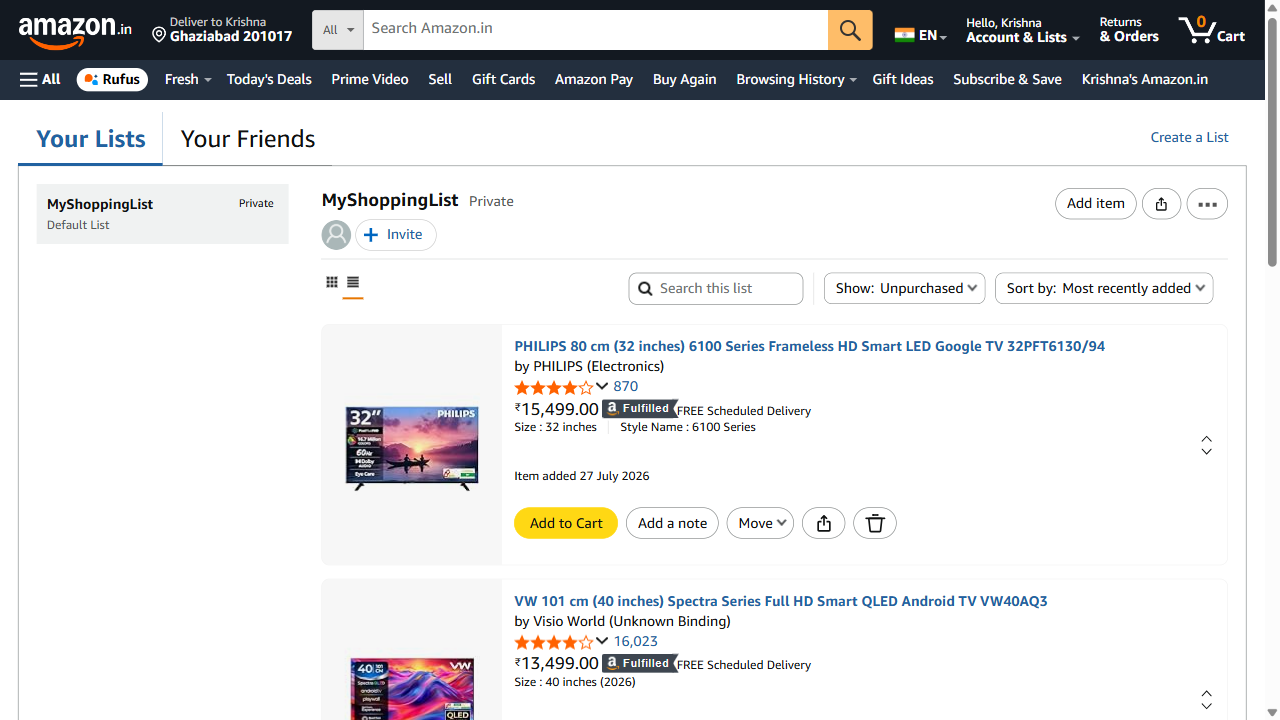
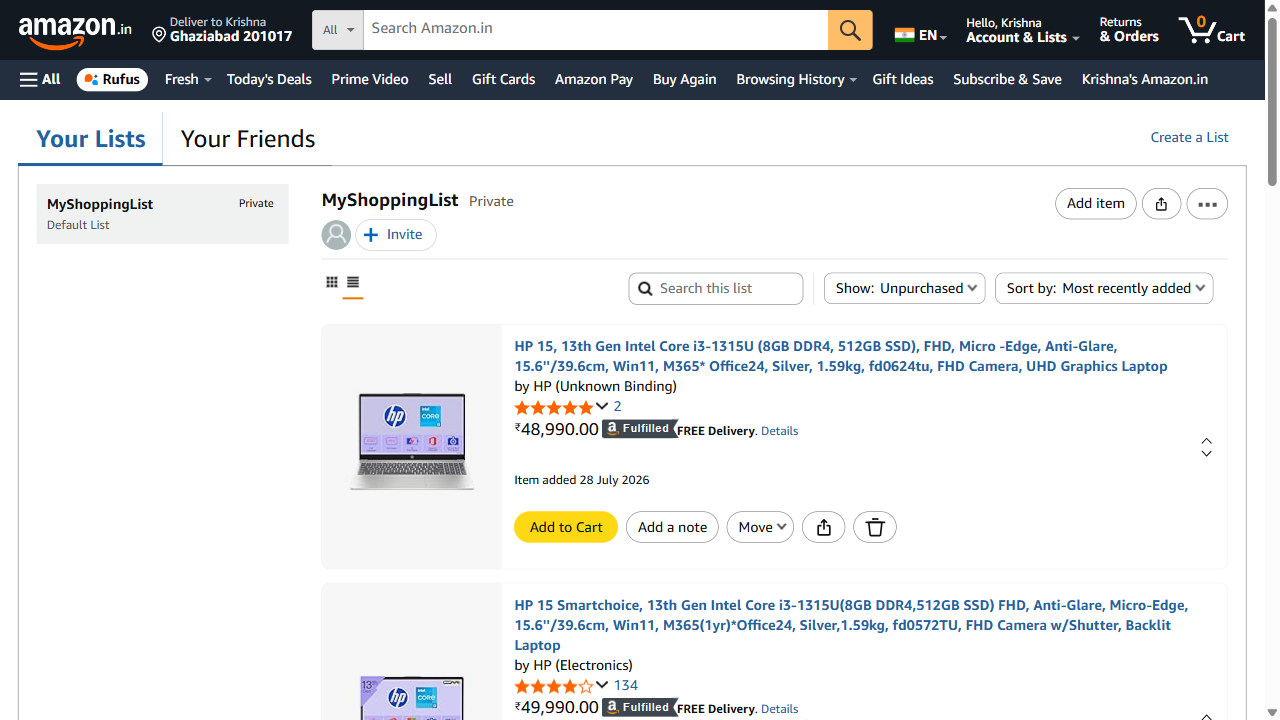
Completed framework

diff --git a/tests/wishlistAddRemove.spec.js b/tests/wishlistAddRemove.spec.js
@@ -8,11 +8,8 @@ const { wishlistUrl } = require('../playwright.config.js');
 const testData = require('../utils/testData.js');
 
 
-const products = [
-    { name: 'Laptop', index: 0 },
-    { name: 'Earbuds', index: 1 },
-    { name: 'TV', index: 3 }
-    ];
+const productName = 'Laptop';
+const productIndexes = [0, 1,3];
 const expectedWishlistItemCount = 3;
 const newWishlistName = 'MyShoppingList';
 const expectedBtnText = 'Add to Wish List';
@@ -21,6 +18,7 @@ const expectedName= 'Krishna' ;
 let homePageobj, searchResultsPageobj, loginPageobj, wishlistPageobj;
 
 test.beforeAll(async ({ browser }) => {
+   // test.setTimeout(40000); 
     const page = await browser.newPage();
     homePageobj = new HomePage(page);
     loginPageobj = new LoginPage(page);
@@ -29,74 +27,42 @@ test.beforeAll(async ({ browser }) => {
     await homePageobj.navigateToHomePage();
     await loginPageobj.login(testData.email, testData.password);
     await loginPageobj.validateLoggedIn(expectedName);
+    await addAllProducts();
 });
 
 // Adds each product to the wishlist, then opens the wishlist 
 async function addAllProducts() {
-    const [firstProduct, secondProduct, thirdProduct] = products;   //destructuring
+    await homePageobj.searchProduct(productName);
+    await searchResultsPageobj.validateSearchResults(productName);
 
-    // Add the first product 
-    await homePageobj.searchProduct(firstProduct.name);
-    await searchResultsPageobj.validateSearchResults(firstProduct.name);
-    const firstProductPage = await searchResultsPageobj.openProduct(firstProduct.index);
+    for (let i = 0; i < productIndexes.length; i++) {
+        const productPage = await searchResultsPageobj.openProduct(productIndexes[i]);
+        const productDetails = new ProductDetailsPage(productPage);
 
-    const firstProductDetails = new ProductDetailsPage(firstProductPage);
-    await firstProductDetails.validateProductPrice();
+        await productDetails.validateProductPrice();
+        await productDetails.addToWishlist(expectedBtnText);
+        await productDetails.validateAddedToWishlistDialog();
 
-    await firstProductDetails.addToWishlist(expectedBtnText);
-    await firstProductDetails.validateAddedToWishlistDialog(firstProduct.name);
-    await firstProductDetails.closeAfterWishlistConfirmation();
+        const isLastProduct = i === productIndexes.length - 1;
 
-
-    // Add the second product 
-    await homePageobj.searchProduct(secondProduct.name);
-    await searchResultsPageobj.validateSearchResults(secondProduct.name);
-    const secondProductPage = await searchResultsPageobj.openProduct(secondProduct.index);
-
-    const secondProductDetails = new ProductDetailsPage(secondProductPage);
-    await secondProductDetails.validateProductPrice();
-
-    await secondProductDetails.addToWishlist(expectedBtnText);
-    await secondProductDetails.validateAddedToWishlistDialog(secondProduct.name);
-    await secondProductDetails.closeAfterWishlistConfirmation();
-
-    // Add the third product open the wishlist
-    await homePageobj.searchProduct(thirdProduct.name);
-    await searchResultsPageobj.validateSearchResults(thirdProduct.name);
-    const thirdProductPage = await searchResultsPageobj.openProduct(thirdProduct.index);
-
-    const thirdProductDetails = new ProductDetailsPage(thirdProductPage);
-    await thirdProductDetails.validateProductPrice();
-
-    await thirdProductDetails.addToWishlist(expectedBtnText);
-    await thirdProductDetails.validateAddedToWishlistDialog(thirdProduct.name);
-
-    // Open the wishlist from the last page and validate count.
-    wishlistPageobj = new WishlistPage(thirdProductPage);
-    await wishlistPageobj.openWishlist(wishlistUrl);
-    await wishlistPageobj.validateWishlistItemCount(expectedWishlistItemCount);
-    
+        if (!isLastProduct) {
+            await productDetails.closeAfterWishlistConfirmation();
+            await homePageobj.page.bringToFront();
+        } else {
+            wishlistPageobj = new WishlistPage(productPage);
+            await wishlistPageobj.openWishlist(wishlistUrl);
+            await wishlistPageobj.validateWishlistItemCount(expectedWishlistItemCount);
+        }
+    }
 }
 
 test.describe('Scenario 5 - Add Product to Wishlist and Remove It', () => {
 
-    test.beforeEach(async () => {
-        await addAllProducts();
-    });
-
-    test.afterEach(async () => {
-    if (wishlistPageobj) {
-        await wishlistPageobj.clearAllWishlistItems();
-    }
-    });
-
 test('Test 1 - Search for an item within the wishlist', async () => {
-    const [laptop] = products;
-
     await wishlistPageobj.captureWishlistScreenshot('Wishlist after adding 3 items');
 
-    await wishlistPageobj.searchWithinWishlist(laptop.name);
-    await wishlistPageobj.validateSearchResultsKeyword(laptop.name);
+    await wishlistPageobj.searchWithinWishlist(productName);
+    await wishlistPageobj.validateSearchResultsKeyword(productName);
     await wishlistPageobj.clearSearchKeyword();
 });
 
@@ -120,6 +86,9 @@ test('Test 3 - Rename the wishlist', async () => {
 });
 });
 
-// test.afterAll(async () => {
-//     await loginPageobj.logout();
-// });
+test.afterAll(async () => {
+//test.setTimeout(40000); 
+ if (wishlistPageobj) {
+        await wishlistPageobj.clearAllWishlistItems();
+    }
+ });

diff --git a/pages/SearchResultsPage.js b/pages/SearchResultsPage.js
@@ -51,13 +51,13 @@ class SearchResultsPage {
     if (this.page.viewportSize().width <= 768) {
         await product.click(); 
         await this.page.waitForURL(/\/dp\/|\/gp\/product\//);
-        await this.page.waitForLoadState('domcontentloaded');
+        //await this.page.waitForLoadState('domcontentloaded');
         return this.page;
     }
     const newPagePromise = this.page.context().waitForEvent('page');
     await product.click(); 
     const productPage = await newPagePromise;
-    await productPage.waitForLoadState('domcontentloaded');
+    //await productPage.waitForLoadState('domcontentloaded');
     return productPage;
     }
 

diff --git a/pages/wishlistPage.js b/pages/wishlistPage.js
@@ -36,8 +36,9 @@ class WishlistPage {
     }
 
     async validateSearchResultsKeyword(keyword) {
-    await expect(this.page.locator(locators.wishlistItemTitle)).toBeVisible();
-    await expect(this.page.locator(locators.wishlistItemTitle)).toContainText(keyword, { ignoreCase: true });
+    const items = this.page.locator(locators.wishlistItemTitle);
+    await expect(items.first()).toBeVisible();
+    await expect(items.first()).toContainText(keyword, { ignoreCase: true });
     }
 
     async clearSearchKeyword(){

diff --git a/pages/ProductDetailsPage.js b/pages/ProductDetailsPage.js
@@ -103,6 +103,7 @@ class ProductDetailsPage {
 
     async closeAfterWishlistConfirmation() {
         await this.page.close();
+        
     }
 
 }
